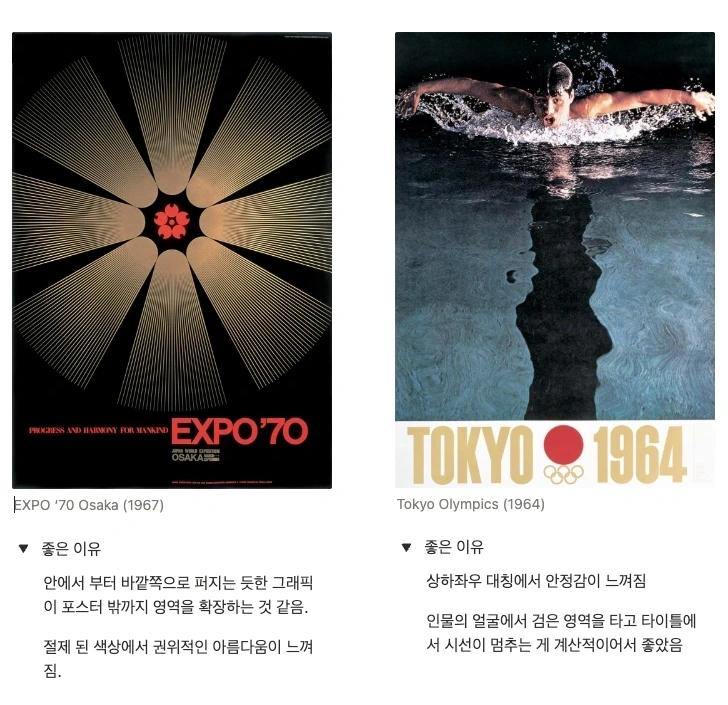
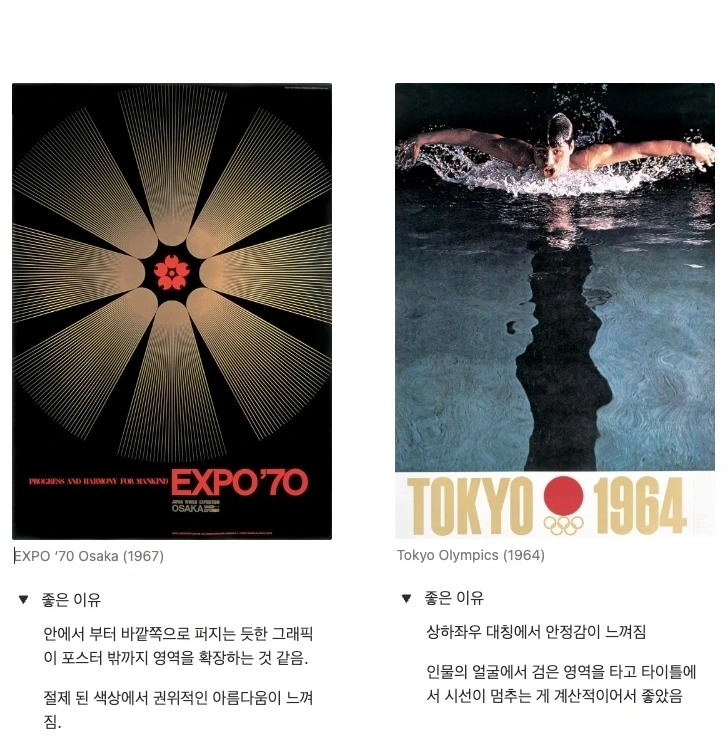
Center align Row 2A attached images group, extend attached_3 top canvas for 100% horizontal poster alignment with attached_2, and restore uncropped attached_5 and expo_detail images

diff --git a/project.html b/project.html
@@ -276,7 +276,7 @@
             width: 100%;
         }
 
-        /* Row 2A 2-column grid: attached_1 (4 posters) & attached_4 (1 poster) with 2fr:1fr scale balance */
+        /* Row 2A 2-column grid: attached_1 (4 posters) & attached_4 (1 poster) centered */
         .workshop-grid-2a {
             display: grid;
             grid-template-columns: 1.9fr 1fr;
@@ -284,6 +284,8 @@
             align-items: start;
             width: 100%;
             max-width: 76%;
+            margin-left: auto !important;
+            margin-right: auto !important;
         }
 
         .workshop-grid-2a img {
@@ -2240,7 +2242,7 @@
 
     <div class="sidebar-overlay" id="sidebarOverlay"></div>
 
-    <script src="script.js?v=20260811-2"></script>
+    <script src="script.js?v=20260811-3"></script>
 </body>
 
 </html>

diff --git a/study.html b/study.html
@@ -259,7 +259,7 @@
             width: 100%;
         }
 
-        /* Row 2A 2-column grid: attached_1 (4 posters) & attached_4 (1 poster) with 2fr:1fr scale balance */
+        /* Row 2A 2-column grid: attached_1 (4 posters) & attached_4 (1 poster) centered */
         .workshop-grid-2a {
             display: grid;
             grid-template-columns: 1.9fr 1fr;
@@ -267,6 +267,8 @@
             align-items: start;
             width: 100%;
             max-width: 76%;
+            margin-left: auto !important;
+            margin-right: auto !important;
         }
 
         .workshop-grid-2a img {
@@ -474,7 +476,7 @@
 
     <div class="sidebar-overlay" id="sidebarOverlay"></div>
 
-    <script src="script.js?v=20260811-2"></script>
+    <script src="script.js?v=20260811-3"></script>
 </body>
 
 </html>

diff --git a/index.html b/index.html
@@ -492,7 +492,7 @@
         </div>
     </div>
 
-    <script src="script.js?v=20260811-2"></script>
+    <script src="script.js?v=20260811-3"></script>
 </body>
 
 </html>
